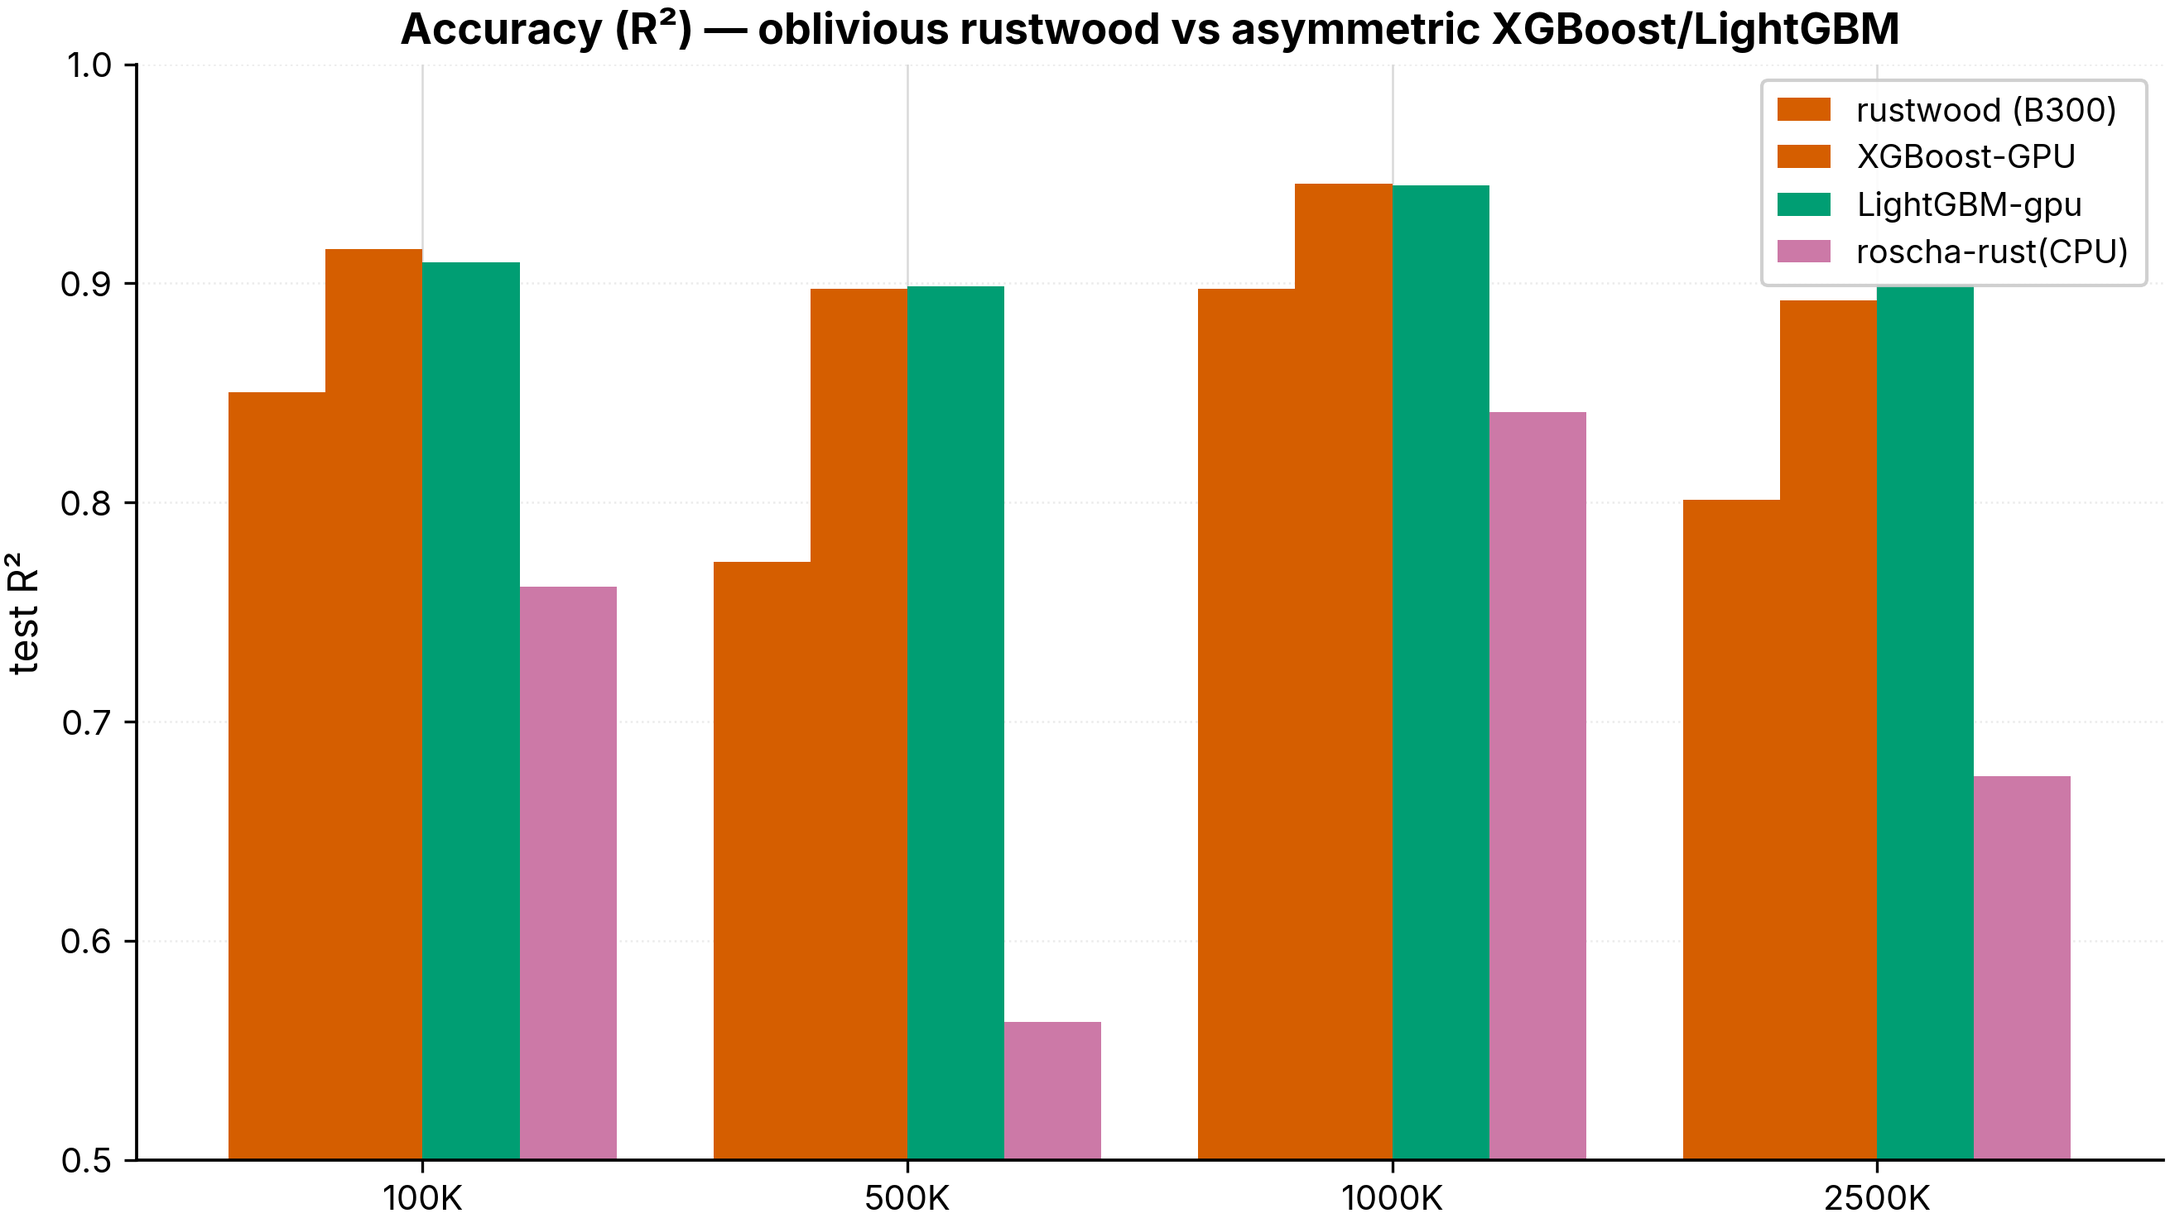
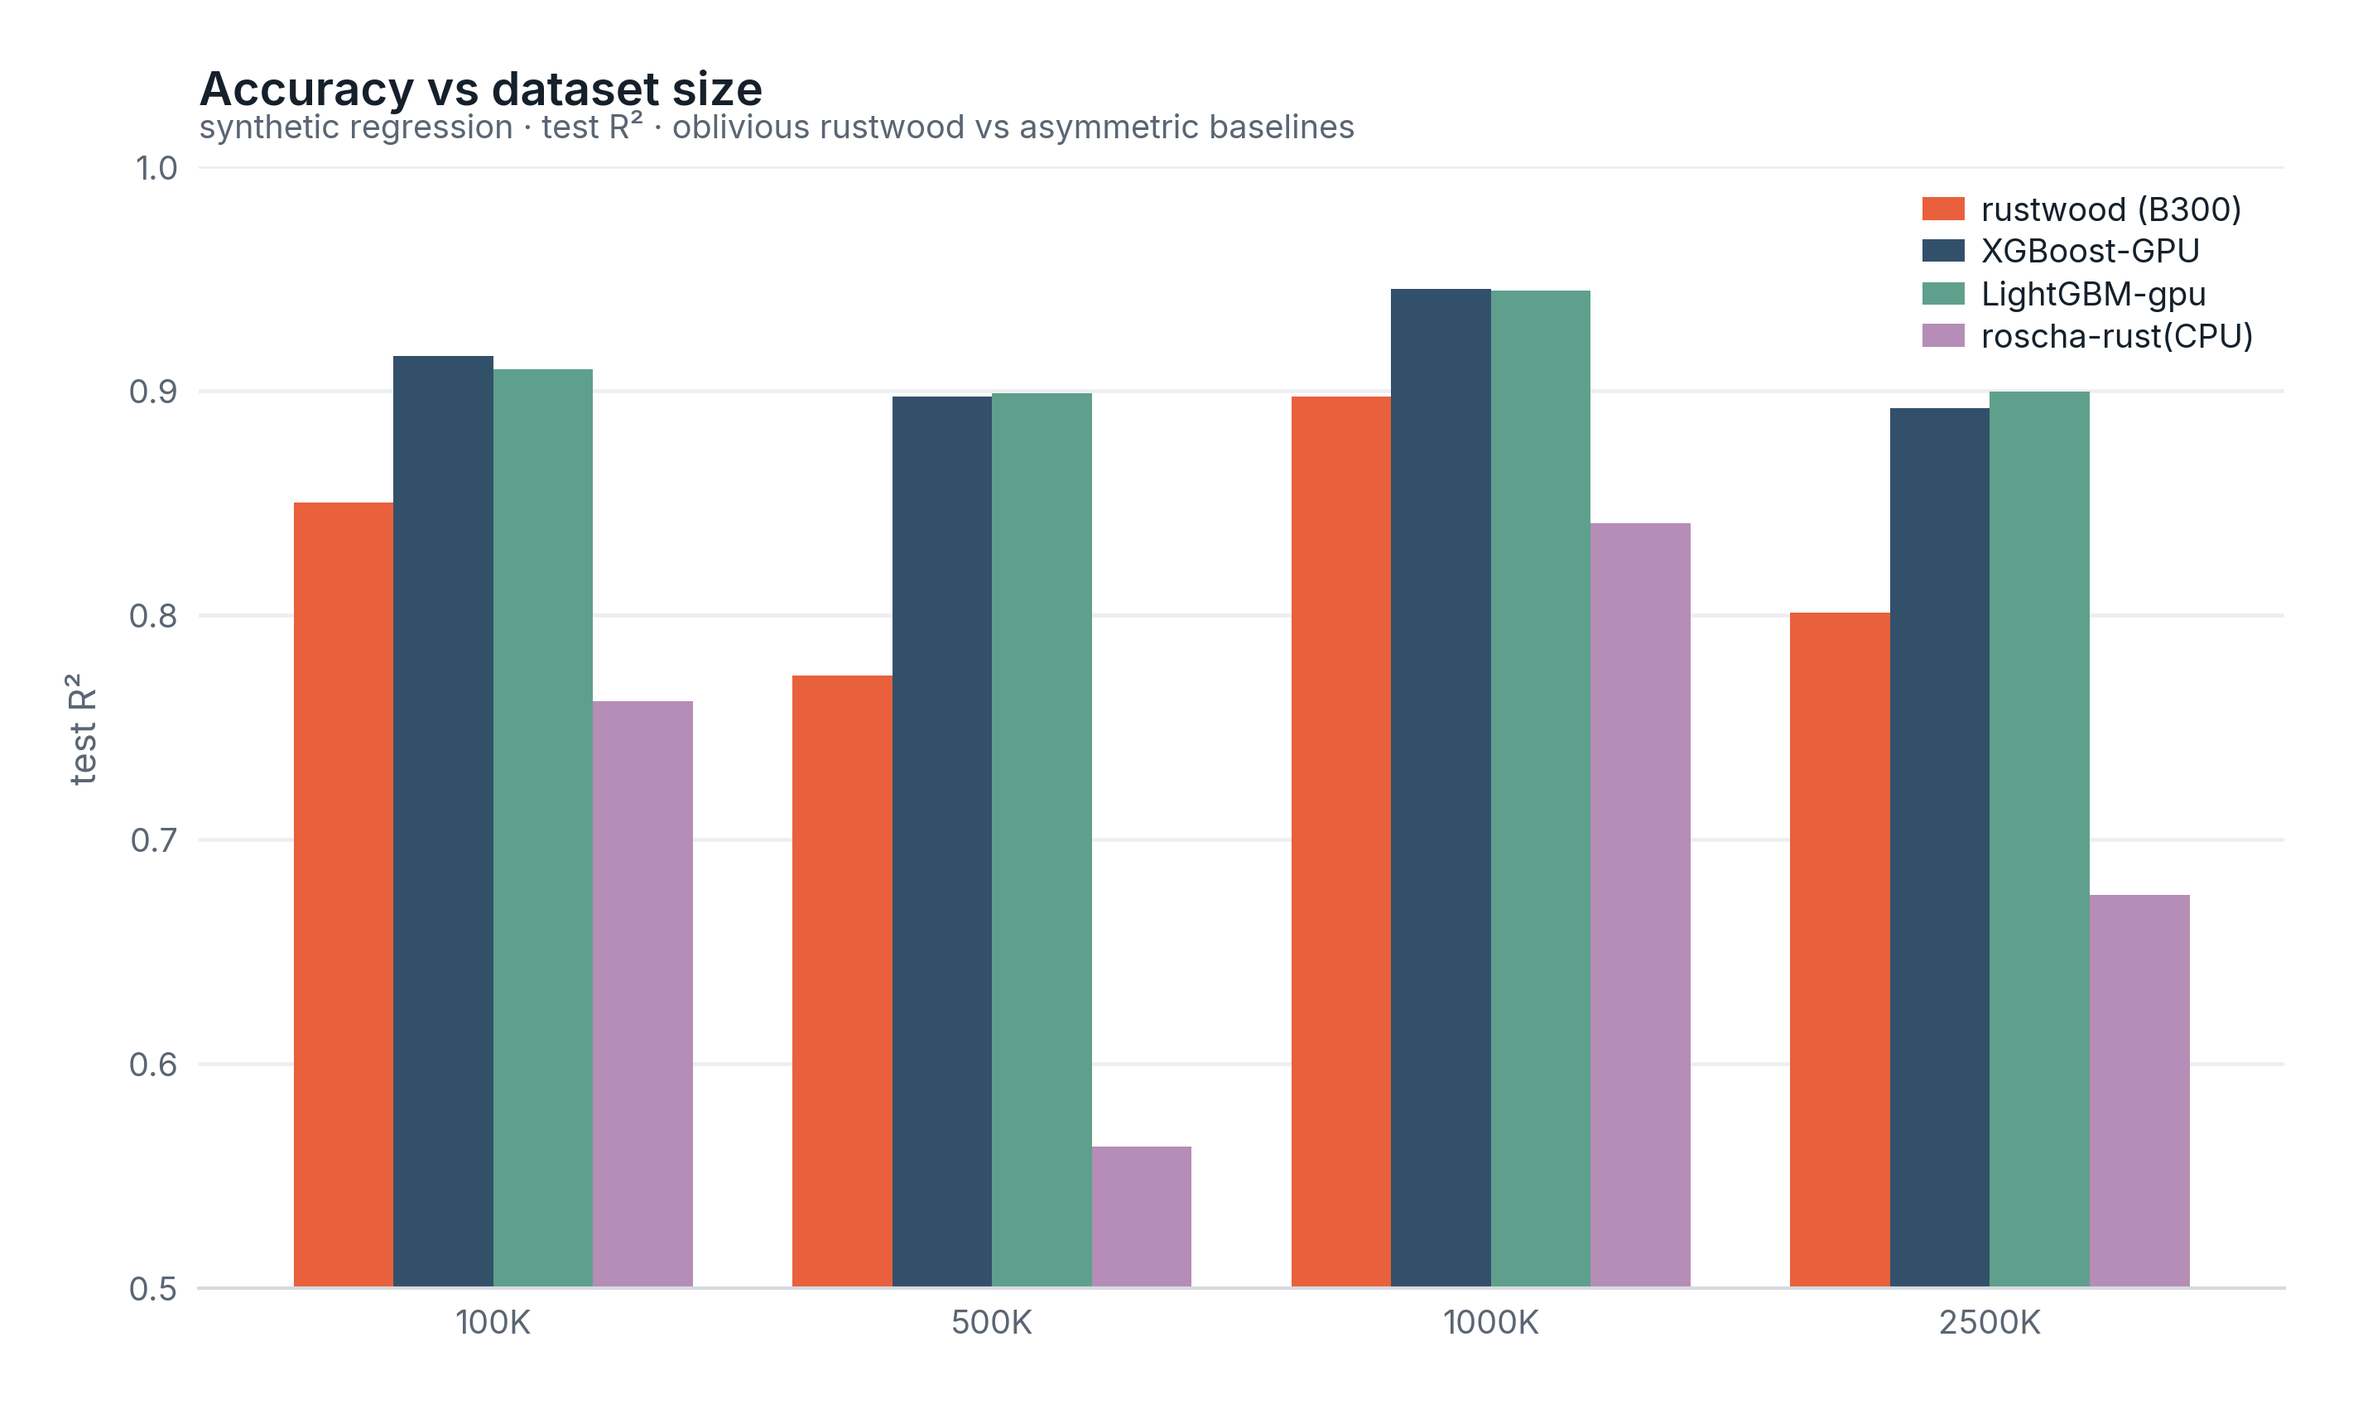
Editorial, publication-grade plot redesign (factory.ai / tilde aesthetic)
- style.py rebuilt: one warm "hero" accent (rustwood terracotta) among cool muted
  baselines; minimal chrome (no box, no tick marks, faint y-grid only); left-aligned
  bold titles + gray subtitles; Inter throughout; generous whitespace; 300-dpi.
  Adds title()/legend() helpers and fixes a palette collision ("xgboost" contains
  "gboost", was inheriting rustwood's color).
- real_bench.py: editorial grouped-bar (direct value labels on the hero series,
  frameless legend, subtitle) + a --plot-only fast path to re-render from saved JSON.
- viz.py / latency_bench.py: dropped inline grid/title/legend overrides so every figure
  inherits the shared style; two-line titles with subtitles. All figures regenerated.

diff --git a/scripts/style.py b/scripts/style.py
@@ -1,48 +1,51 @@
-"""Shared publication-quality matplotlib style (ICML/ICLR-grade).
+"""Shared plotting style — clean, modern, editorial (Inter, minimal chrome).
 
-One consistent type scale, colorblind-safe palette (Okabe–Ito), clean spines, serif
-body with LaTeX-style math, 300-dpi output. Import and call ``apply()`` at the top of
-every plotting script so all figures match.
+Design: a single warm "hero" accent for rustwood among cool muted baselines; almost no
+chrome (no tick marks, faint y-grid only, no box); left-aligned title + gray subtitle;
+Inter throughout; generous whitespace; 300-dpi output. Import, call ``apply()``, and use
+``title(ax, ...)`` / ``finish(ax)`` for consistent framing.
 """
 import os
 
 import matplotlib as mpl
 
-# Okabe–Ito colorblind-safe qualitative palette, assigned consistently per system.
+# Editorial palette: rustwood is the only warm tone, so it reads as the protagonist;
+# baselines are cool and muted so they recede without being hidden.
 PALETTE = {
-    "rustwood (B300)": "#D55E00",   # vermillion ("rust")
-    "rustwood+TE":     "#E69F00",   # orange
-    "rustwood-CPU":    "#9467bd",   # muted purple (CPU inference path)
-    "XGBoost-GPU":     "#0072B2",   # blue
-    "LightGBM-GPU":    "#009E73",   # bluish green
-    "LightGBM-CPU":    "#009E73",
-    "baseline (CPU)":    "#CC79A7",   # reddish purple
-    "baseline (CPU)": "#CC79A7",
+    "rustwood": "#E8613C",      # terracotta / "rust"
+    "rustwood+TE": "#F1A340",   # warm amber
+    "rustwood-CPU": "#7C6BAE",  # muted violet (CPU path)
+    "rustwood-fast": "#F1A340",
+    "xgboost": "#33506B",       # deep slate blue
+    "lightgbm": "#5FA08C",      # muted teal
+    "baseline": "#B58DB6",        # muted mauve
 }
+INK = "#15202B"      # title / emphasis
+MUTED = "#5B6573"    # labels, ticks, subtitles
+FAINT = "#9AA3AF"    # captions
+GRID = "#ECEEF1"
 
 
 def color(name: str) -> str:
-    """Palette lookup tolerant of label variants (case-insensitive substring)."""
     key = name.lower()
-    table = [
-        ("rustwood+te", "#E69F00"),
-        ("rustwood-cpu", "#9467bd"),
-        ("rustwood", "#D55E00"),
-        ("gboost", "#D55E00"),
-        ("xgboost", "#0072B2"),
-        ("lightgbm", "#009E73"),
-        ("baseline", "#CC79A7"),
-    ]
-    for token, c in table:
+    for token, c in (
+        ("rustwood+te", PALETTE["rustwood+TE"]),
+        ("rustwood-cpu", PALETTE["rustwood-CPU"]),
+        ("fast", PALETTE["rustwood-fast"]),
+        ("xgboost", PALETTE["xgboost"]),  # before "rustwood": "xgboost" contains "gboost"
+        ("rustwood", PALETTE["rustwood"]),
+        ("xgb", PALETTE["xgboost"]),
+        ("lightgbm", PALETTE["lightgbm"]),
+        ("baseline", PALETTE["baseline"]),
+    ):
         if token in key:
             return c
-    return "#444444"
+    return "#8A929E"
 
 
 def _register_inter():
-    """Make sure matplotlib can find Inter (from ~/.fonts or the system)."""
     from matplotlib import font_manager
-    if any("inter" == f.name.lower() for f in font_manager.fontManager.ttflist):
+    if any(f.name == "Inter" for f in font_manager.fontManager.ttflist):
         return
     for d in (os.path.expanduser("~/.fonts"), "/usr/share/fonts"):
         if os.path.isdir(d):
@@ -57,47 +60,71 @@ def _register_inter():
 def apply():
     _register_inter()
     mpl.rcParams.update({
-        # output
         "figure.dpi": 160,
         "savefig.dpi": 300,
         "savefig.bbox": "tight",
-        "savefig.pad_inches": 0.03,
+        "savefig.pad_inches": 0.28,
+        "figure.facecolor": "white",
+        "axes.facecolor": "white",
         "figure.constrained_layout.use": True,
-        # fonts — Inter (clean modern sans), DejaVu Sans for math
+        # type
         "font.family": "sans-serif",
         "font.sans-serif": ["Inter", "DejaVu Sans", "Helvetica", "Arial"],
         "mathtext.fontset": "dejavusans",
         "font.size": 11,
-        "axes.titlesize": 12.5,
-        "axes.titleweight": "bold",
-        "axes.labelsize": 11.5,
-        "xtick.labelsize": 10,
-        "ytick.labelsize": 10,
-        "legend.fontsize": 9.5,
-        "legend.title_fontsize": 10,
-        # axes / spines
-        "axes.linewidth": 0.9,
+        "text.color": INK,
+        "axes.titlesize": 13.5,
+        "axes.titleweight": "semibold",
+        "axes.titlecolor": INK,
+        "axes.titlelocation": "left",
+        "axes.titlepad": 18,
+        "axes.labelsize": 10.5,
+        "axes.labelcolor": MUTED,
+        "axes.labelpad": 7,
+        "xtick.labelsize": 9.5,
+        "ytick.labelsize": 9.5,
+        "xtick.color": MUTED,
+        "ytick.color": MUTED,
+        # minimal chrome — no box, no tick marks
+        "axes.edgecolor": "#D7DBE0",
+        "axes.linewidth": 1.0,
         "axes.spines.top": False,
         "axes.spines.right": False,
+        "axes.spines.left": False,
+        "axes.spines.bottom": True,
         "axes.axisbelow": True,
-        # grid
+        "xtick.major.size": 0,
+        "ytick.major.size": 0,
+        "xtick.major.pad": 6,
+        "ytick.major.pad": 6,
+        # faint horizontal grid only
         "axes.grid": True,
-        "grid.color": "0.85",
-        "grid.linewidth": 0.6,
-        "grid.alpha": 1.0,
-        # lines / markers
-        "lines.linewidth": 1.9,
-        "lines.markersize": 5.5,
+        "axes.grid.axis": "y",
+        "grid.color": GRID,
+        "grid.linewidth": 1.1,
+        # lines / legend
+        "lines.linewidth": 2.2,
+        "lines.markersize": 5,
         "lines.markeredgewidth": 0.0,
-        # legend
-        "legend.frameon": True,
-        "legend.framealpha": 0.92,
-        "legend.edgecolor": "0.8",
-        "legend.borderpad": 0.5,
-        "legend.handlelength": 1.6,
-        # ticks
-        "xtick.direction": "out",
-        "ytick.direction": "out",
-        "xtick.major.size": 3.5,
-        "ytick.major.size": 3.5,
+        "legend.frameon": False,
+        "legend.fontsize": 9.5,
+        "legend.handlelength": 1.3,
+        "legend.handletextpad": 0.5,
+        "legend.columnspacing": 1.3,
+        "legend.labelspacing": 0.35,
     })
+
+
+def title(ax, main, subtitle=None):
+    """Left-aligned bold title with an optional gray subtitle above the axes."""
+    ax.set_title(main)
+    if subtitle:
+        ax.text(0.0, 1.02, subtitle, transform=ax.transAxes, ha="left", va="bottom",
+                fontsize=9.5, color=MUTED)
+
+
+def legend(ax, **kw):
+    """Frameless legend with sensible defaults."""
+    kw.setdefault("frameon", False)
+    kw.setdefault("loc", "best")
+    return ax.legend(**kw)

diff --git a/scripts/real_bench.py b/scripts/real_bench.py
@@ -174,41 +174,68 @@ def run_baseline(Xi, yi, Xv, yv, Xf, yf, Xte, yte):
 
 
 # --------------------------------------------------------------------- plotting
-def grouped_bar(results, key, ylabel, title, fname, logy=False, ylim=None, annotate_win=False):
-    names = [d["name"] for d in results]
-    fig, ax = plt.subplots(figsize=(8.2, 4.7))
+SHORT = {"rustwood (B300)": "rustwood", "XGBoost-GPU": "XGBoost",
+         "LightGBM-GPU": "LightGBM", "baseline (CPU)": "baseline"}
+
+
+def grouped_bar(results, key, ylabel, main, sub, fname, fmt, logy=False, ylim=None,
+                legend_loc="below", label_hero=True):
+    names = [d["name"].replace("\n", " ") for d in results]
+    fig, ax = plt.subplots(figsize=(9.0, 5.0))
     x = np.arange(len(names))
-    w = 0.2
+    w = 0.19
     for i, lib in enumerate(LIBS):
         vals = [d["by"].get(lib, {}).get(key, np.nan) for d in results]
-        ax.bar(x + (i - 1.5) * w, vals, w, color=style.color(lib),
-               label=lib, edgecolor="white", linewidth=0.4)
-    if annotate_win:
+        ax.bar(x + (i - 1.5) * w, vals, w, color=style.color(lib), label=SHORT[lib],
+               zorder=3, edgecolor="white", linewidth=0.6)
+    if label_hero:  # direct value labels on the rustwood (hero) bars
         for j, d in enumerate(results):
-            vals = {lib: d["by"][lib][key] for lib in LIBS if lib in d["by"]}
-            if vals and max(vals, key=vals.get) == "rustwood (B300)":
-                ax.scatter(x[j] - 1.5 * w, d["by"]["rustwood (B300)"][key] + (0.0 if logy else 0.008),
-                           marker="*", s=80, color="black", zorder=6)
+            v = d["by"].get("rustwood (B300)", {}).get(key, np.nan)
+            if not np.isnan(v):
+                won = v == max((r[key] for r in d["by"].values()), default=v)
+                ax.annotate(fmt(v), (x[j] - 1.5 * w, v), textcoords="offset points",
+                            xytext=(0, 5), ha="center", fontsize=8.6,
+                            color=style.color("rustwood"),
+                            fontweight="bold" if won else "semibold")
+    style.title(ax, main, sub)
     ax.set_xticks(x)
-    ax.set_xticklabels([n.replace("\n", " ") for n in names], rotation=12, ha="right")
+    ax.set_xticklabels(names)
     ax.set_ylabel(ylabel)
-    ax.set_title(title)
     if logy:
         ax.set_yscale("log")
     if ylim:
         ax.set_ylim(*ylim)
-    ax.grid(axis="x", visible=False)
-    ax.legend(ncol=2, loc="lower right" if not logy else "best", framealpha=0.92)
+    ax.set_xlim(-0.55, len(names) - 0.45)
+    ax.margins(y=0.12)
+    if legend_loc == "below":
+        style.legend(ax, ncol=4, loc="upper center", bbox_to_anchor=(0.5, -0.13))
+    else:
+        style.legend(ax, ncol=2, loc=legend_loc)
     fig.savefig(os.path.join(RESULTS, fname))
     plt.close(fig)
     print("wrote", fname)
 
 
+def make_plots(results):
+    grouped_bar(results, "auc", "test ROC-AUC",
+                "Accuracy on real tabular datasets",
+                "depth 6, 200 trees · each library learning-rate-tuned on validation · test ROC-AUC",
+                "real_auc.png", fmt=lambda v: f"{v:.3f}", ylim=(0.70, 1.0), legend_loc="below")
+    grouped_bar(results, "train", "training wall-clock (s)",
+                "Training time on real datasets",
+                "depth 6, 200 trees · warm (cold-start excluded) · lower is better",
+                "real_train_time.png", fmt=lambda v: f"{v:.2f}s", logy=True,
+                legend_loc="upper left", label_hero=True)
+
+
 def main():
-    if not os.path.exists(RUSTWOOD_BIN):
-        sys.exit(f"build rustwood first: {RUSTWOOD_BIN}")
     style.apply()
     os.makedirs(RESULTS, exist_ok=True)
+    if "--plot-only" in sys.argv:  # re-render figures from saved results
+        make_plots(json.load(open(os.path.join(RESULTS, "real_results.json"))))
+        return
+    if not os.path.exists(RUSTWOOD_BIN):
+        sys.exit(f"build rustwood first: {RUSTWOOD_BIN}")
 
     # Warm the GPU (pay CUDA/context cold-start once, before any timing).
     try:
@@ -261,15 +288,9 @@ def main():
                 print(f"  {lib:<16}{r['auc']:>8.4f}{r['lr']:>6}{r['train']:>10.3f}{r['pred']*1e3:>10.2f}{star}")
         results.append({"name": name.replace("-581k", "\n581k"), "by": by})
 
-    json.dump([{"name": r["name"].replace("\n", " "), "by": r["by"]} for r in results],
-              open(os.path.join(RESULTS, "real_results.json"), "w"), indent=2)
-
-    grouped_bar(results, "auc", "test ROC-AUC",
-                "Accuracy on real datasets (depth 6, 200 trees; each library lr-tuned)",
-                "real_auc.png", ylim=(0.70, 1.0), annotate_win=True)
-    grouped_bar(results, "train", "training wall-clock (s)",
-                "Training time on real datasets (warm, log scale)",
-                "real_train_time.png", logy=True)
+    out = [{"name": r["name"].replace("\n", " "), "by": r["by"]} for r in results]
+    json.dump(out, open(os.path.join(RESULTS, "real_results.json"), "w"), indent=2)
+    make_plots(out)
 
 
 if __name__ == "__main__":

diff --git a/scripts/viz.py b/scripts/viz.py
@@ -95,10 +95,8 @@ def plot_train_time(results, out_png):
             plt.loglog(xs, ys, "o-", color=COLORS[lib], label=lib, lw=2.2, ms=7)
     plt.xlabel("training rows")
     plt.ylabel("training wall-clock (s)")
-    plt.title("Training time vs dataset size (log-log) — 100 trees, depth 6")
-    plt.grid(True, which="both", ls=":", alpha=0.5)
+    style.title(plt.gca(), "Training time vs dataset size", "synthetic regression · 100 trees, depth 6 · log–log · lower is better")
     plt.legend()
-    plt.tight_layout()
     plt.savefig(out_png)
     plt.close()
     print("wrote", out_png)
@@ -119,10 +117,8 @@ def plot_infer(results, out_png):
             plt.loglog(xs, ys, "o-", color=COLORS[lib], label=lib, lw=2.2, ms=7)
     plt.xlabel("training rows")
     plt.ylabel("inference time (ns / row)")
-    plt.title("Inference latency vs dataset size (log-log, ns/row)")
-    plt.grid(True, which="both", ls=":", alpha=0.5)
+    style.title(plt.gca(), "Inference throughput vs dataset size", "amortized per-row latency · log–log · lower is better")
     plt.legend()
-    plt.tight_layout()
     plt.savefig(out_png)
     plt.close()
     print("wrote", out_png)
@@ -143,10 +139,8 @@ def plot_speedup(results, out_png):
     plt.axhline(1.0, color="k", ls="--", lw=1)
     plt.xticks(x, [f"{s//1000}K" for s in sizes])
     plt.ylabel("rustwood training speedup (×)")
-    plt.title("How many times faster rustwood trains (same hyperparameters)")
+    style.title(plt.gca(), "rustwood training speedup", "× faster than each baseline at matched hyperparameters · higher is better")
     plt.legend()
-    plt.grid(True, axis="y", ls=":", alpha=0.5)
-    plt.tight_layout()
     plt.savefig(out_png)
     plt.close()
     print("wrote", out_png)
@@ -166,10 +160,8 @@ def plot_accuracy(results, out_png):
     plt.xticks(x, [f"{s//1000}K" for s in sizes])
     plt.ylabel("test R²")
     plt.ylim(0.5, 1.0)
-    plt.title("Accuracy (R²) — oblivious rustwood vs asymmetric XGBoost/LightGBM")
+    style.title(plt.gca(), "Accuracy vs dataset size", "synthetic regression · test R² · oblivious rustwood vs asymmetric baselines")
     plt.legend()
-    plt.grid(True, axis="y", ls=":", alpha=0.5)
-    plt.tight_layout()
     plt.savefig(out_png)
     plt.close()
     print("wrote", out_png)
@@ -205,10 +197,9 @@ def plot_iso_accuracy(results, rustwood_bin, data_dir, out_png):
                         color=COLORS[lib], s=130, marker="*", zorder=5, label=lib)
     plt.xlabel("training wall-clock (s)")
     plt.ylabel("test R²")
-    plt.title("Accuracy vs training time @ 1M rows — the iso-accuracy frontier")
+    style.title(plt.gca(), "Accuracy vs training time (1M rows)", "the iso-accuracy frontier · up and to the left is better")
     plt.grid(True, ls=":", alpha=0.5)
     plt.legend()
-    plt.tight_layout()
     plt.savefig(out_png)
     plt.close()
     print("wrote", out_png)

diff --git a/scripts/latency_bench.py b/scripts/latency_bench.py
@@ -134,9 +134,7 @@ def main():
     plt.ylabel("amortized latency (ns / row)")
     plt.title("Inference: per-row latency vs batch size (true end-to-end)\n"
               "CPU path serves single rows in <1 µs; GPU dominates at large batch")
-    plt.grid(True, which="both", ls=":", alpha=0.5)
     plt.legend()
-    plt.tight_layout()
     plt.savefig(os.path.join(args.out, "infer_latency_perrow.png"))
     plt.close()
 
@@ -150,9 +148,7 @@ def main():
     plt.xlabel("batch size (rows scored per call)")
     plt.ylabel("per-call latency (µs)")
     plt.title("Inference: per-call latency vs batch size (true end-to-end)")
-    plt.grid(True, which="both", ls=":", alpha=0.5)
     plt.legend()
-    plt.tight_layout()
     plt.savefig(os.path.join(args.out, "infer_latency_percall.png"))
     plt.close()
 
